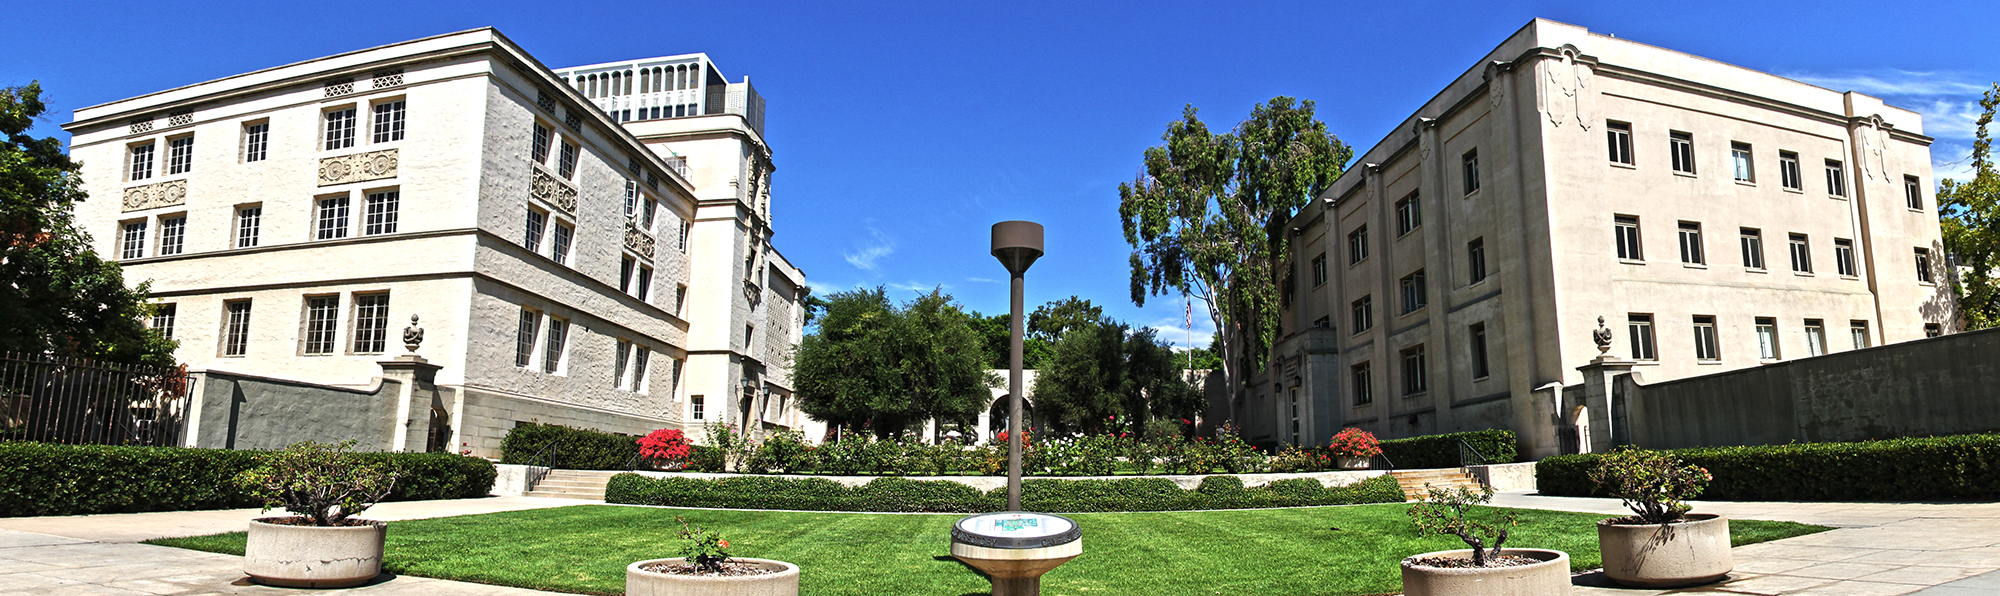
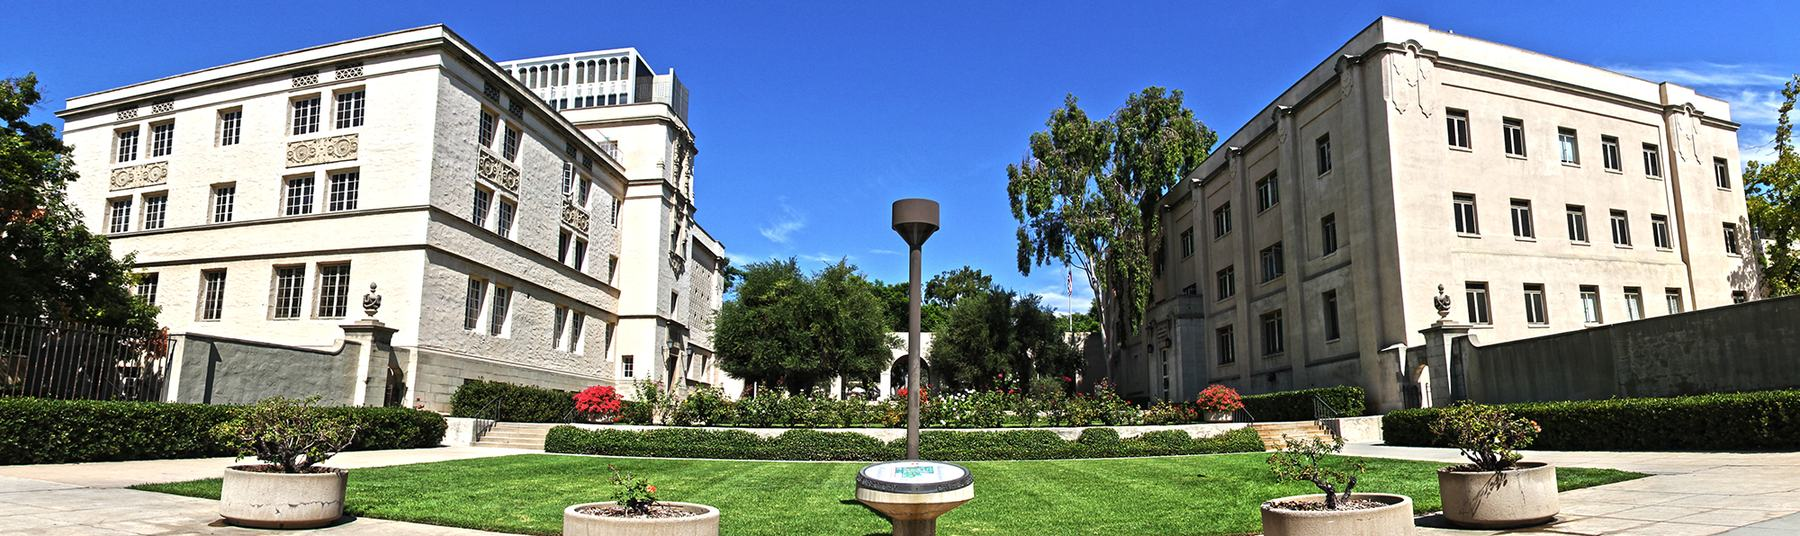
优化ui

diff --git a/styles.css b/styles.css
@@ -2471,6 +2471,8 @@ details.answer p {
 }
 
 .exploration-window {
+  display: grid;
+  grid-template-columns: minmax(0, 1fr);
   gap: 0;
   padding: 0;
   background:
@@ -2479,6 +2481,12 @@ details.answer p {
   border: 1px solid var(--line);
   border-radius: 18px;
   overflow: hidden;
+}
+
+.exploration-hero,
+.exploration-rail,
+.exploration-detail {
+  grid-column: 1 / -1;
 }
 
 .exploration-hero {
@@ -2706,6 +2714,222 @@ details.answer p {
   .overview-stop,
   .ability-pill {
     min-height: auto;
+  }
+}
+
+@media (orientation: landscape) and (max-height: 540px) {
+  .topbar {
+    align-items: center;
+    flex-direction: row;
+    gap: 12px;
+    min-height: 62px;
+    padding: 8px 14px;
+  }
+
+  .brand {
+    width: auto;
+  }
+
+  .brand-mark {
+    width: 36px;
+    height: 36px;
+  }
+
+  .brand strong {
+    font-size: 14px;
+  }
+
+  .brand small {
+    font-size: 11px;
+  }
+
+  .main-nav {
+    width: auto;
+    margin-left: auto;
+    display: flex;
+    grid-template-columns: none;
+    gap: 4px;
+  }
+
+  .nav-button {
+    min-height: 34px;
+    padding: 6px 9px;
+  }
+
+  .nav-button span {
+    font-size: 12px;
+  }
+
+  main {
+    width: min(100% - 20px, 1180px);
+    padding-top: 14px;
+  }
+
+  .summary-band {
+    grid-template-columns: minmax(0, 1.15fr) minmax(240px, 0.85fr);
+    gap: 18px;
+    padding: 18px;
+  }
+
+  .summary-copy {
+    align-content: start;
+  }
+
+  .summary-copy .eyebrow {
+    margin-bottom: 6px;
+    font-size: 12px;
+  }
+
+  #overview-title {
+    margin-bottom: 10px;
+    font-size: clamp(24px, 4vw, 36px);
+    line-height: 1.12;
+  }
+
+  .lede {
+    font-size: 15px;
+    line-height: 1.45;
+  }
+
+  .hero-board {
+    grid-template-columns: repeat(3, minmax(0, 1fr));
+    gap: 8px;
+    align-content: center;
+  }
+
+  .mini-grid {
+    min-height: 116px;
+    padding: 10px;
+  }
+
+  .hero-stat {
+    min-height: 60px;
+    padding: 10px;
+  }
+
+  .hero-stat strong {
+    font-size: 22px;
+  }
+
+  .hero-stat span {
+    margin-top: 5px;
+    font-size: 12px;
+  }
+
+  .overview-runway {
+    grid-template-columns: repeat(4, minmax(0, 1fr));
+    margin-bottom: 18px;
+  }
+
+  .overview-stop {
+    min-height: 0;
+    padding: 14px 16px;
+  }
+
+  .overview-stop strong {
+    font-size: 16px;
+  }
+
+  .overview-stop p {
+    font-size: 13px;
+    line-height: 1.4;
+  }
+
+  .ability-strip {
+    grid-template-columns: repeat(3, minmax(0, 1fr));
+    margin-bottom: 22px;
+  }
+
+  .ability-pill {
+    min-height: 0;
+    padding: 14px 16px;
+  }
+
+  .ability-pill strong {
+    font-size: 14px;
+  }
+
+  .ability-pill span,
+  .ability-pill small {
+    font-size: 12px;
+  }
+
+  .section-heading {
+    margin: 20px 0 14px;
+  }
+
+  .week-overview {
+    grid-template-columns: repeat(2, minmax(0, 1fr));
+    gap: 12px;
+  }
+
+  .lesson-card {
+    min-height: 108px;
+    padding: 14px;
+  }
+
+  .lesson-card strong {
+    font-size: 14px;
+  }
+
+  .exploration-window {
+    border-radius: 14px;
+  }
+
+  .exploration-hero {
+    grid-template-columns: minmax(0, 1.1fr) minmax(260px, 0.9fr);
+    gap: 18px;
+    padding: 18px;
+  }
+
+  .exploration-lede {
+    font-size: 16px;
+  }
+
+  .exploration-voice {
+    font-size: 14px;
+  }
+
+  .exploration-hero-image,
+  .exploration-hero-image img {
+    min-height: 190px;
+  }
+
+  .exploration-rail {
+    grid-template-columns: repeat(3, minmax(0, 1fr));
+  }
+
+  .exploration-rail-item {
+    min-height: 0;
+    padding: 14px 16px;
+    border-bottom: 0;
+    border-right: 1px solid rgba(23, 32, 38, 0.08);
+  }
+
+  .exploration-rail-item:last-child {
+    border-right: 0;
+  }
+
+  .exploration-detail,
+  .science-detail {
+    grid-template-columns: minmax(220px, 0.86fr) minmax(0, 1.14fr);
+    gap: 18px;
+    padding: 18px;
+  }
+
+  .exploration-detail-copy {
+    gap: 10px;
+  }
+
+  .exploration-detail h3 {
+    font-size: 22px;
+  }
+
+  .detail-kicker,
+  .exploration-detail-copy p,
+  .exploration-detail-copy li {
+    font-size: 14px;
+    line-height: 1.45;
   }
 }
 